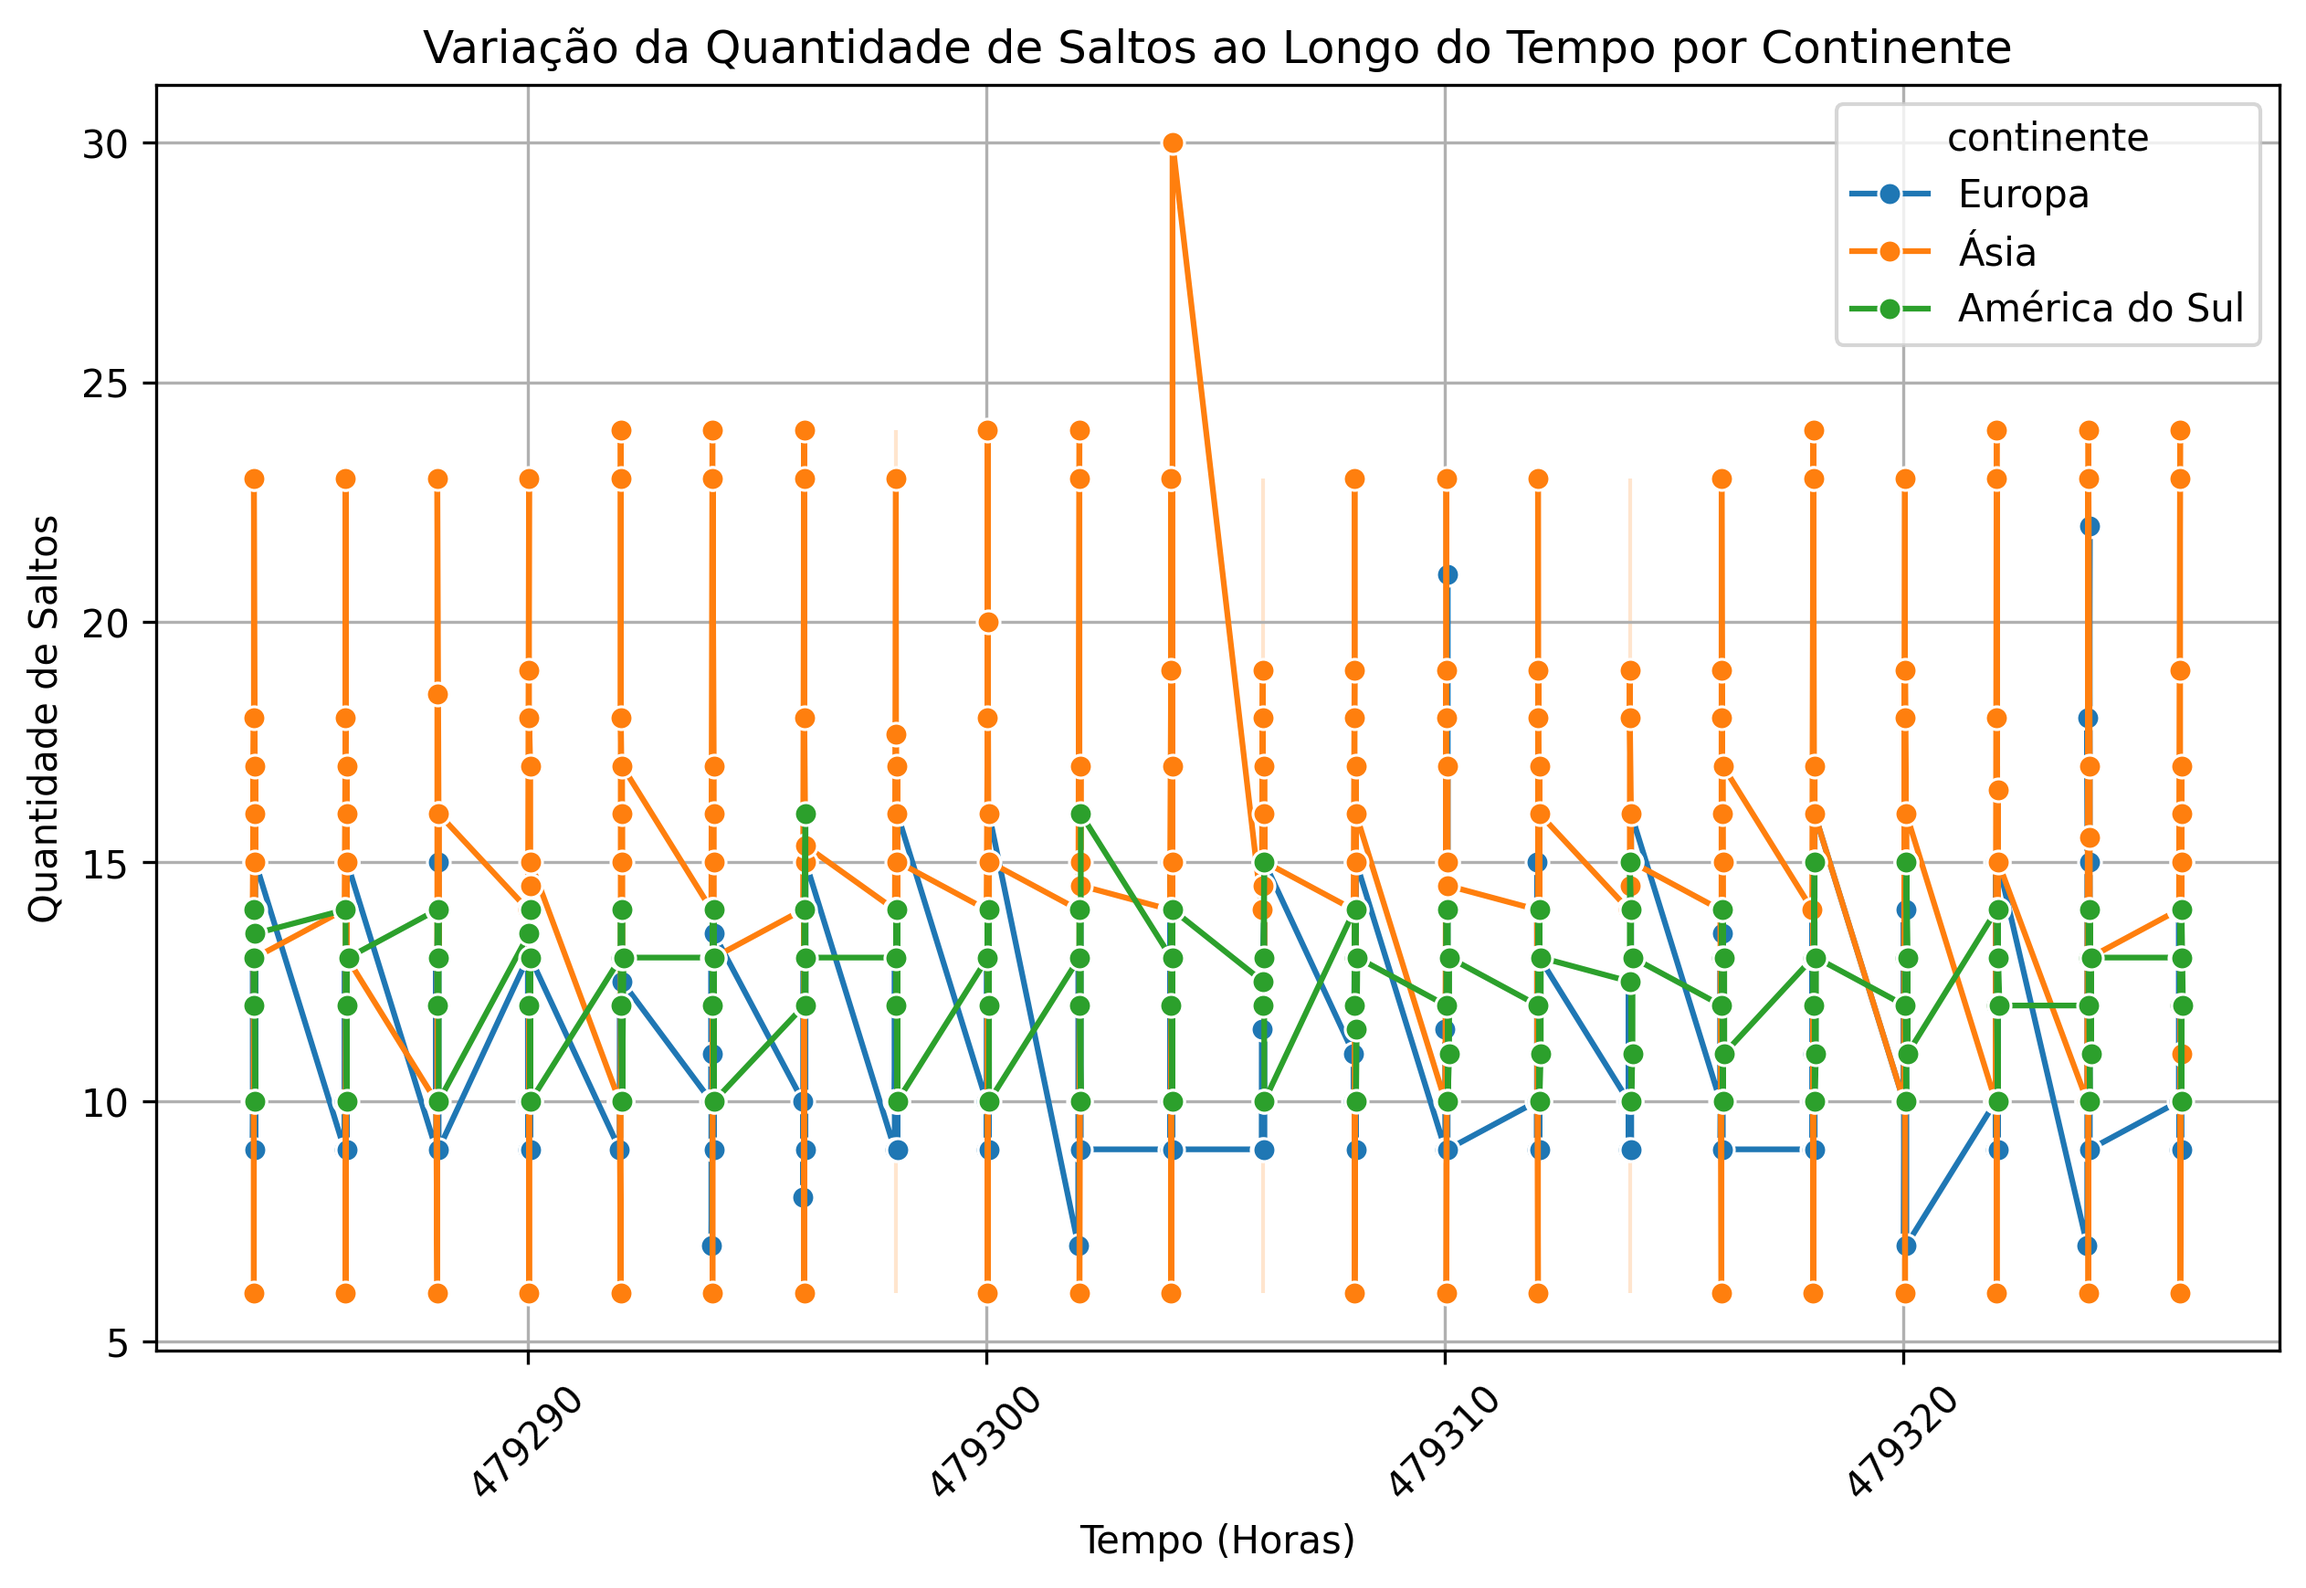
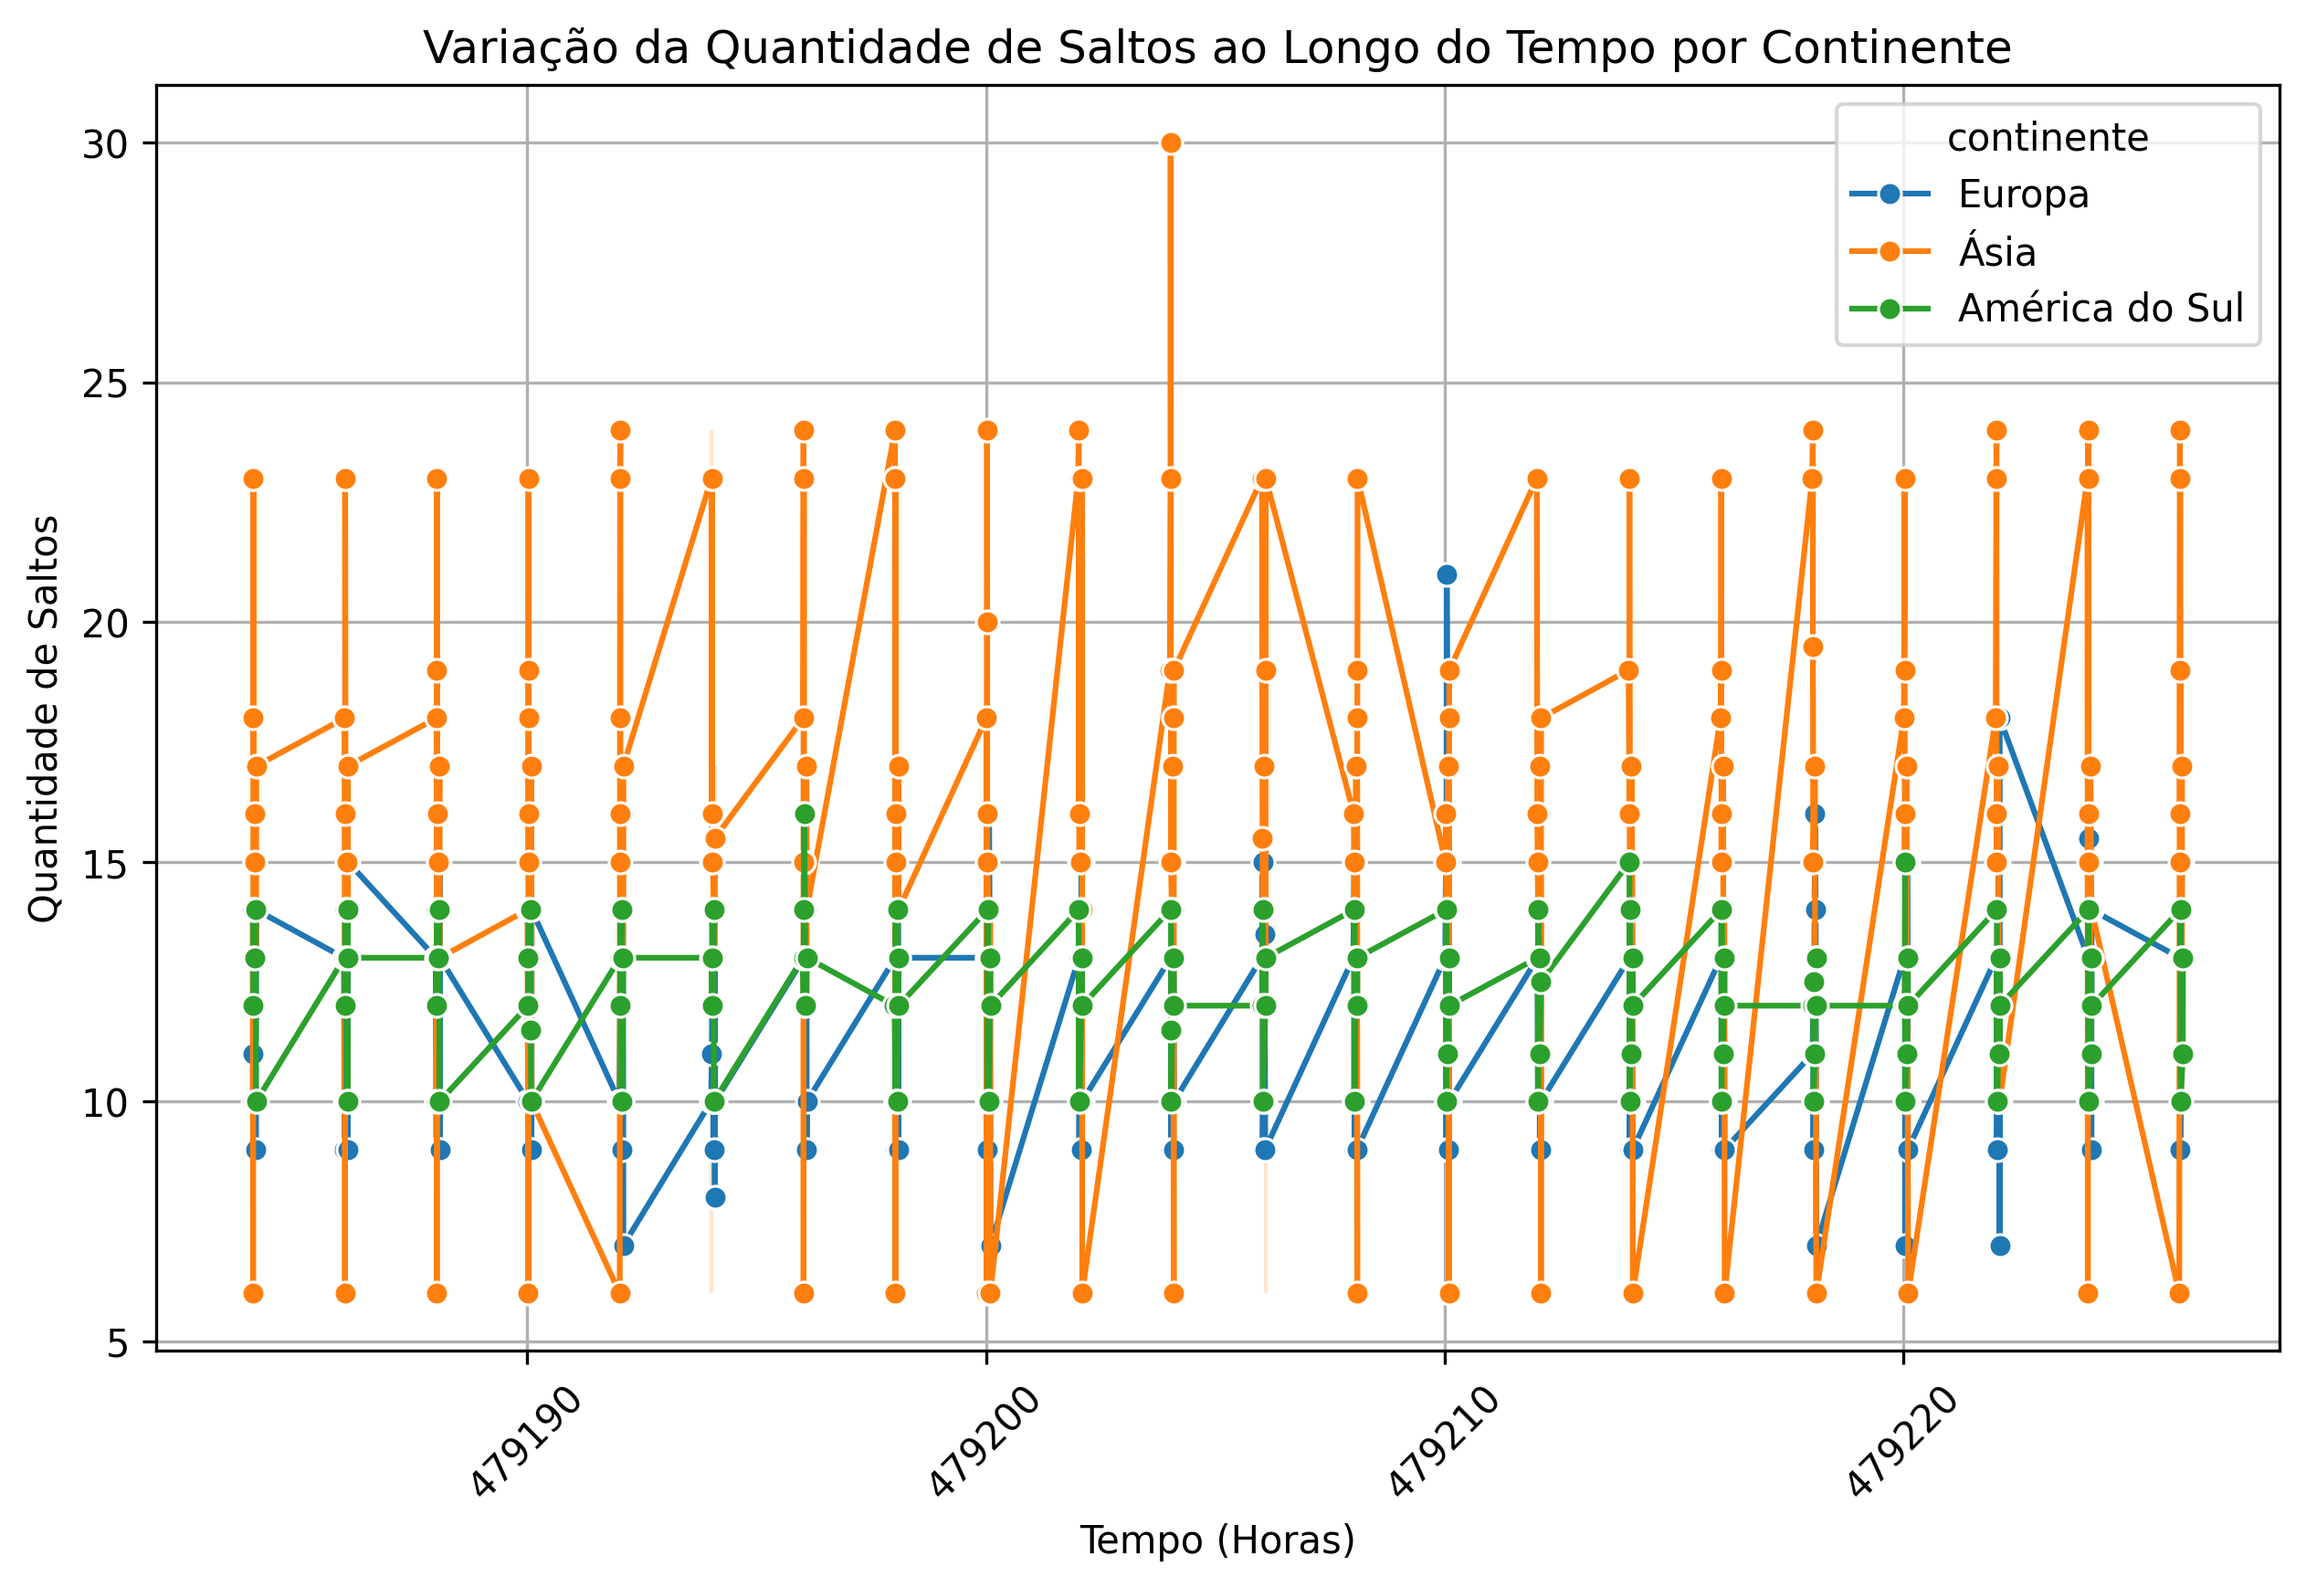
att: graficos separados

diff --git a/codigos/gerar_graficos.py b/codigos/gerar_graficos.py
@@ -3,9 +3,6 @@ import pandas as pd
 import matplotlib.pyplot as plt
 import seaborn as sns
 
-#GERA GRAFICOS DE CADA MEDIÇÃO
-
-
 # Função para ler múltiplos arquivos JSON e combinar em um DataFrame
 def ler_e_combinar_jsons(lista_arquivos_json):
     dfs = []
@@ -16,17 +13,22 @@ def ler_e_combinar_jsons(lista_arquivos_json):
         dfs.append(df)
     return pd.concat(dfs, ignore_index=True)
 
+# Função para ajustar os timestamps para horas
+def ajustar_timestamp_para_horas(df):
+    df['horas'] = df['timestamp'] / 3600  # Convertendo segundos para horas
+    return df
+
 # Função para gerar gráficos de latência ao longo do tempo por país e destino
 def grafico_latencia(df, salvar=False):
     plt.figure(figsize=(10, 6))
     sns.lineplot(x='horas', y='latencia', hue='pais', data=df, marker='o')
     plt.title('Variação da Latência ao Longo do Tempo por País')
-    plt.xlabel('Timestamp')
+    plt.xlabel('Tempo (Horas)')
     plt.ylabel('Latência (ms)')
     plt.xticks(rotation=45)
     plt.grid(True)
     if salvar:
-        plt.savefig('grafico_latencia_max.png', dpi=300, bbox_inches='tight')
+        plt.savefig('grafico_latencia_prime.png', dpi=300, bbox_inches='tight')
     plt.show()
 
 # Função para gerar gráficos de quantidade de saltos ao longo do tempo por país e destino
@@ -34,12 +36,12 @@ def grafico_saltos(df, salvar=False):
     plt.figure(figsize=(10, 6))
     sns.lineplot(x='horas', y='quantidade_saltos', hue='pais', data=df, marker='o')
     plt.title('Variação da Quantidade de Saltos ao Longo do Tempo por País')
-    plt.xlabel('Timestamp')
+    plt.xlabel('Tempo (Horas)')
     plt.ylabel('Quantidade de Saltos')
     plt.xticks(rotation=45)
     plt.grid(True)
     if salvar:
-        plt.savefig('grafico_saltos_max.png', dpi=300, bbox_inches='tight')
+        plt.savefig('grafico_saltos_prime.png', dpi=300, bbox_inches='tight')
     plt.show()
 
 # Função para gerar gráficos de correlação entre latência e quantidade de saltos para países
@@ -51,7 +53,7 @@ def grafico_correlacao_paises(df, salvar=False):
     plt.ylabel('Latência (ms)')
     plt.grid(True)
     if salvar:
-        plt.savefig('grafico_correlacao_paises_max.png', dpi=300, bbox_inches='tight')  # Nome diferente para salvar
+        plt.savefig('grafico_correlacao_paises_prime.png', dpi=300, bbox_inches='tight')  # Nome diferente para salvar
     plt.show()
 
 # Função para gerar gráficos de correlação entre latência e quantidade de saltos para continentes
@@ -65,7 +67,7 @@ def grafico_correlacao_continentes(df, salvar=False):
     plt.ylabel('Latência (ms)')
     plt.grid(True)
     if salvar:
-        plt.savefig('grafico_correlacao_continentes_max.png', dpi=300, bbox_inches='tight')  # Nome diferente para salvar
+        plt.savefig('grafico_correlacao_continentes_prime.png', dpi=300, bbox_inches='tight')  # Nome diferente para salvar
     plt.show()
 
 # Função para gerar gráficos por continente (necessita de um mapeamento de país -> continente)
@@ -76,30 +78,25 @@ def grafico_por_continente(df, continentes, salvar=False):
     plt.figure(figsize=(10, 6))
     sns.lineplot(x='horas', y='latencia', hue='continente', data=df, marker='o')
     plt.title('Variação da Latência ao Longo do Tempo por Continente')
-    plt.xlabel('Timestamp')
+    plt.xlabel('Tempo (Horas)')
     plt.ylabel('Latência (ms)')
     plt.xticks(rotation=45)
     plt.grid(True)
     if salvar:
-        plt.savefig('grafico_latencia_continente_max.png', dpi=300, bbox_inches='tight')
+        plt.savefig('grafico_latencia_continente_prime.png', dpi=300, bbox_inches='tight')
     plt.show()
 
     # Gráfico de saltos por continente
     plt.figure(figsize=(10, 6))
     sns.lineplot(x='horas', y='quantidade_saltos', hue='continente', data=df, marker='o')
     plt.title('Variação da Quantidade de Saltos ao Longo do Tempo por Continente')
-    plt.xlabel('Timestamp')
+    plt.xlabel('Tempo (Horas)')
     plt.ylabel('Quantidade de Saltos')
     plt.xticks(rotation=45)
     plt.grid(True)
     if salvar:
-        plt.savefig('grafico_saltos_continente_max.png', dpi=300, bbox_inches='tight')
+        plt.savefig('grafico_saltos_continente_prime.png', dpi=300, bbox_inches='tight')
     plt.show()
-
-# Exemplo de uso:
-lista_arquivos_json = ['max_resultados.json']  # Substituir pelos nomes dos seus arquivos
-dados = ler_e_combinar_jsons(lista_arquivos_json)
-
 
 # Mapeamento de país para continente
 continentes = {
@@ -114,6 +111,12 @@ continentes = {
     'india': 'Ásia'
 }
 
+#Chamar a função para cada json _resultados (prime,disney e max)
+#lista_arquivos_json = ['max_resultados.json']
+#lista_arquivos_json = ['disney_resultados.json']
+lista_arquivos_json = ['prime_resultados.json']
+dados = ler_e_combinar_jsons(lista_arquivos_json)
+dados = ajustar_timestamp_para_horas(dados)
 # Gerando gráficos e salvando como PNG
 grafico_latencia(dados, salvar=True)
 grafico_saltos(dados, salvar=True)
